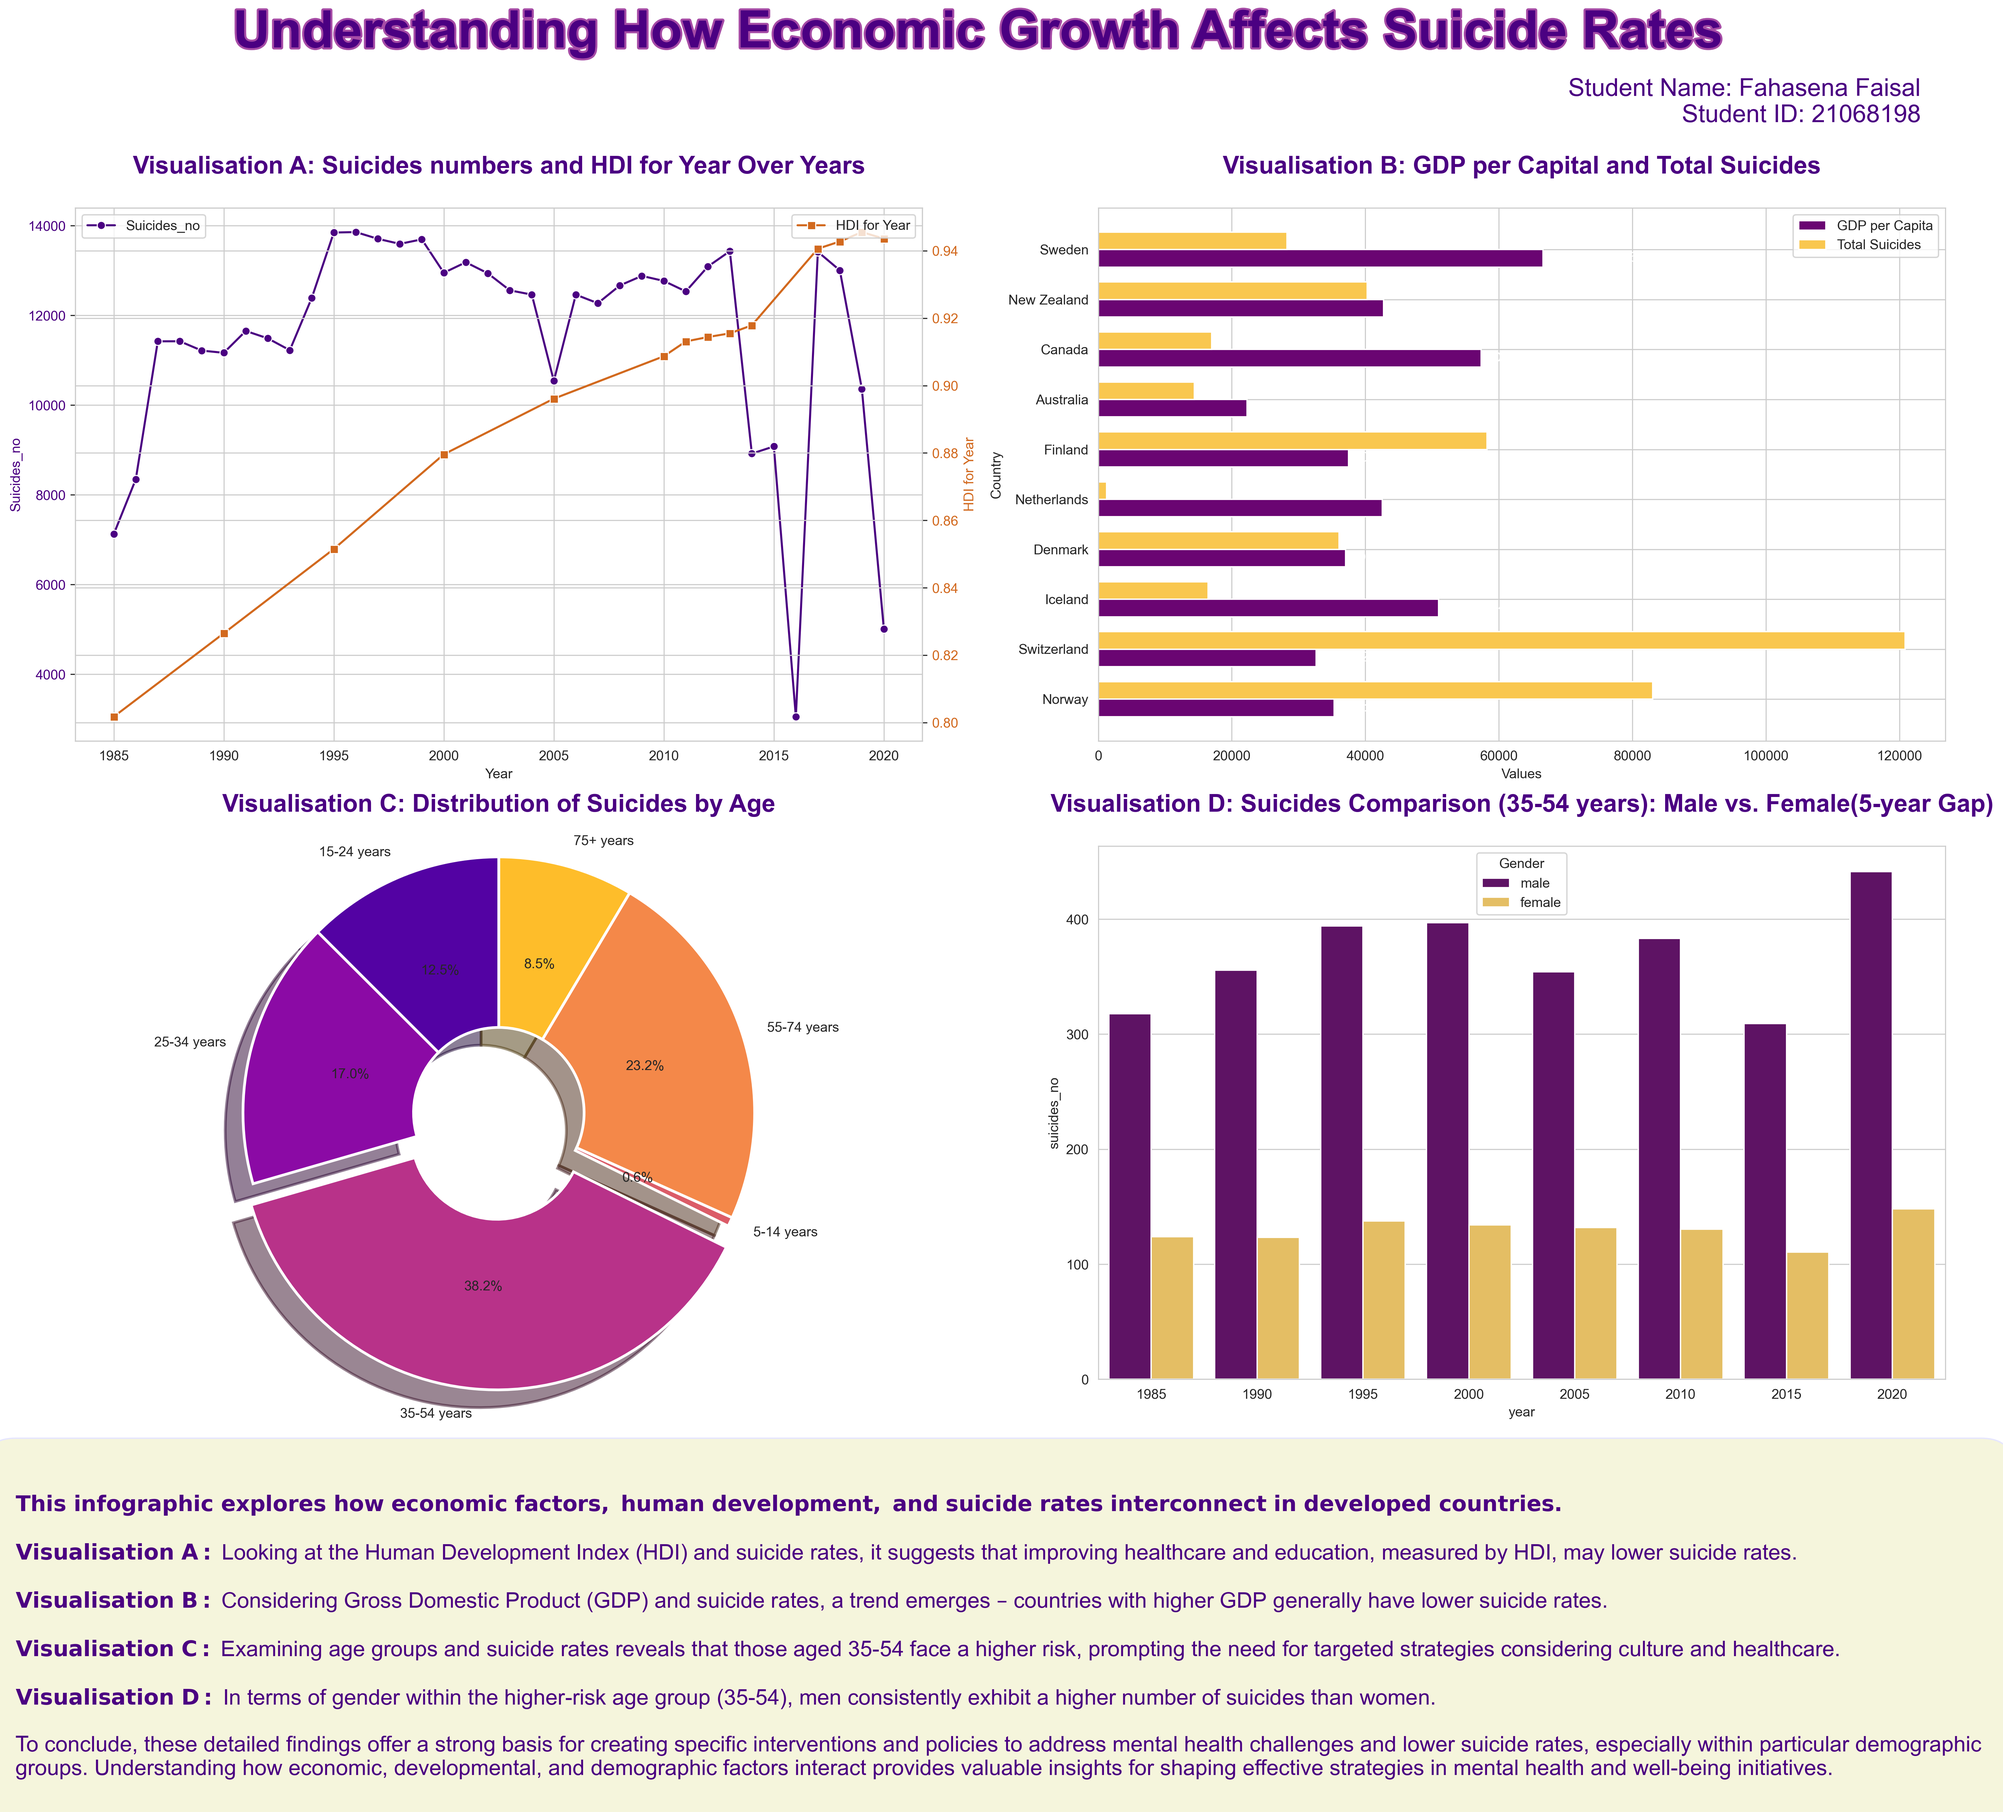
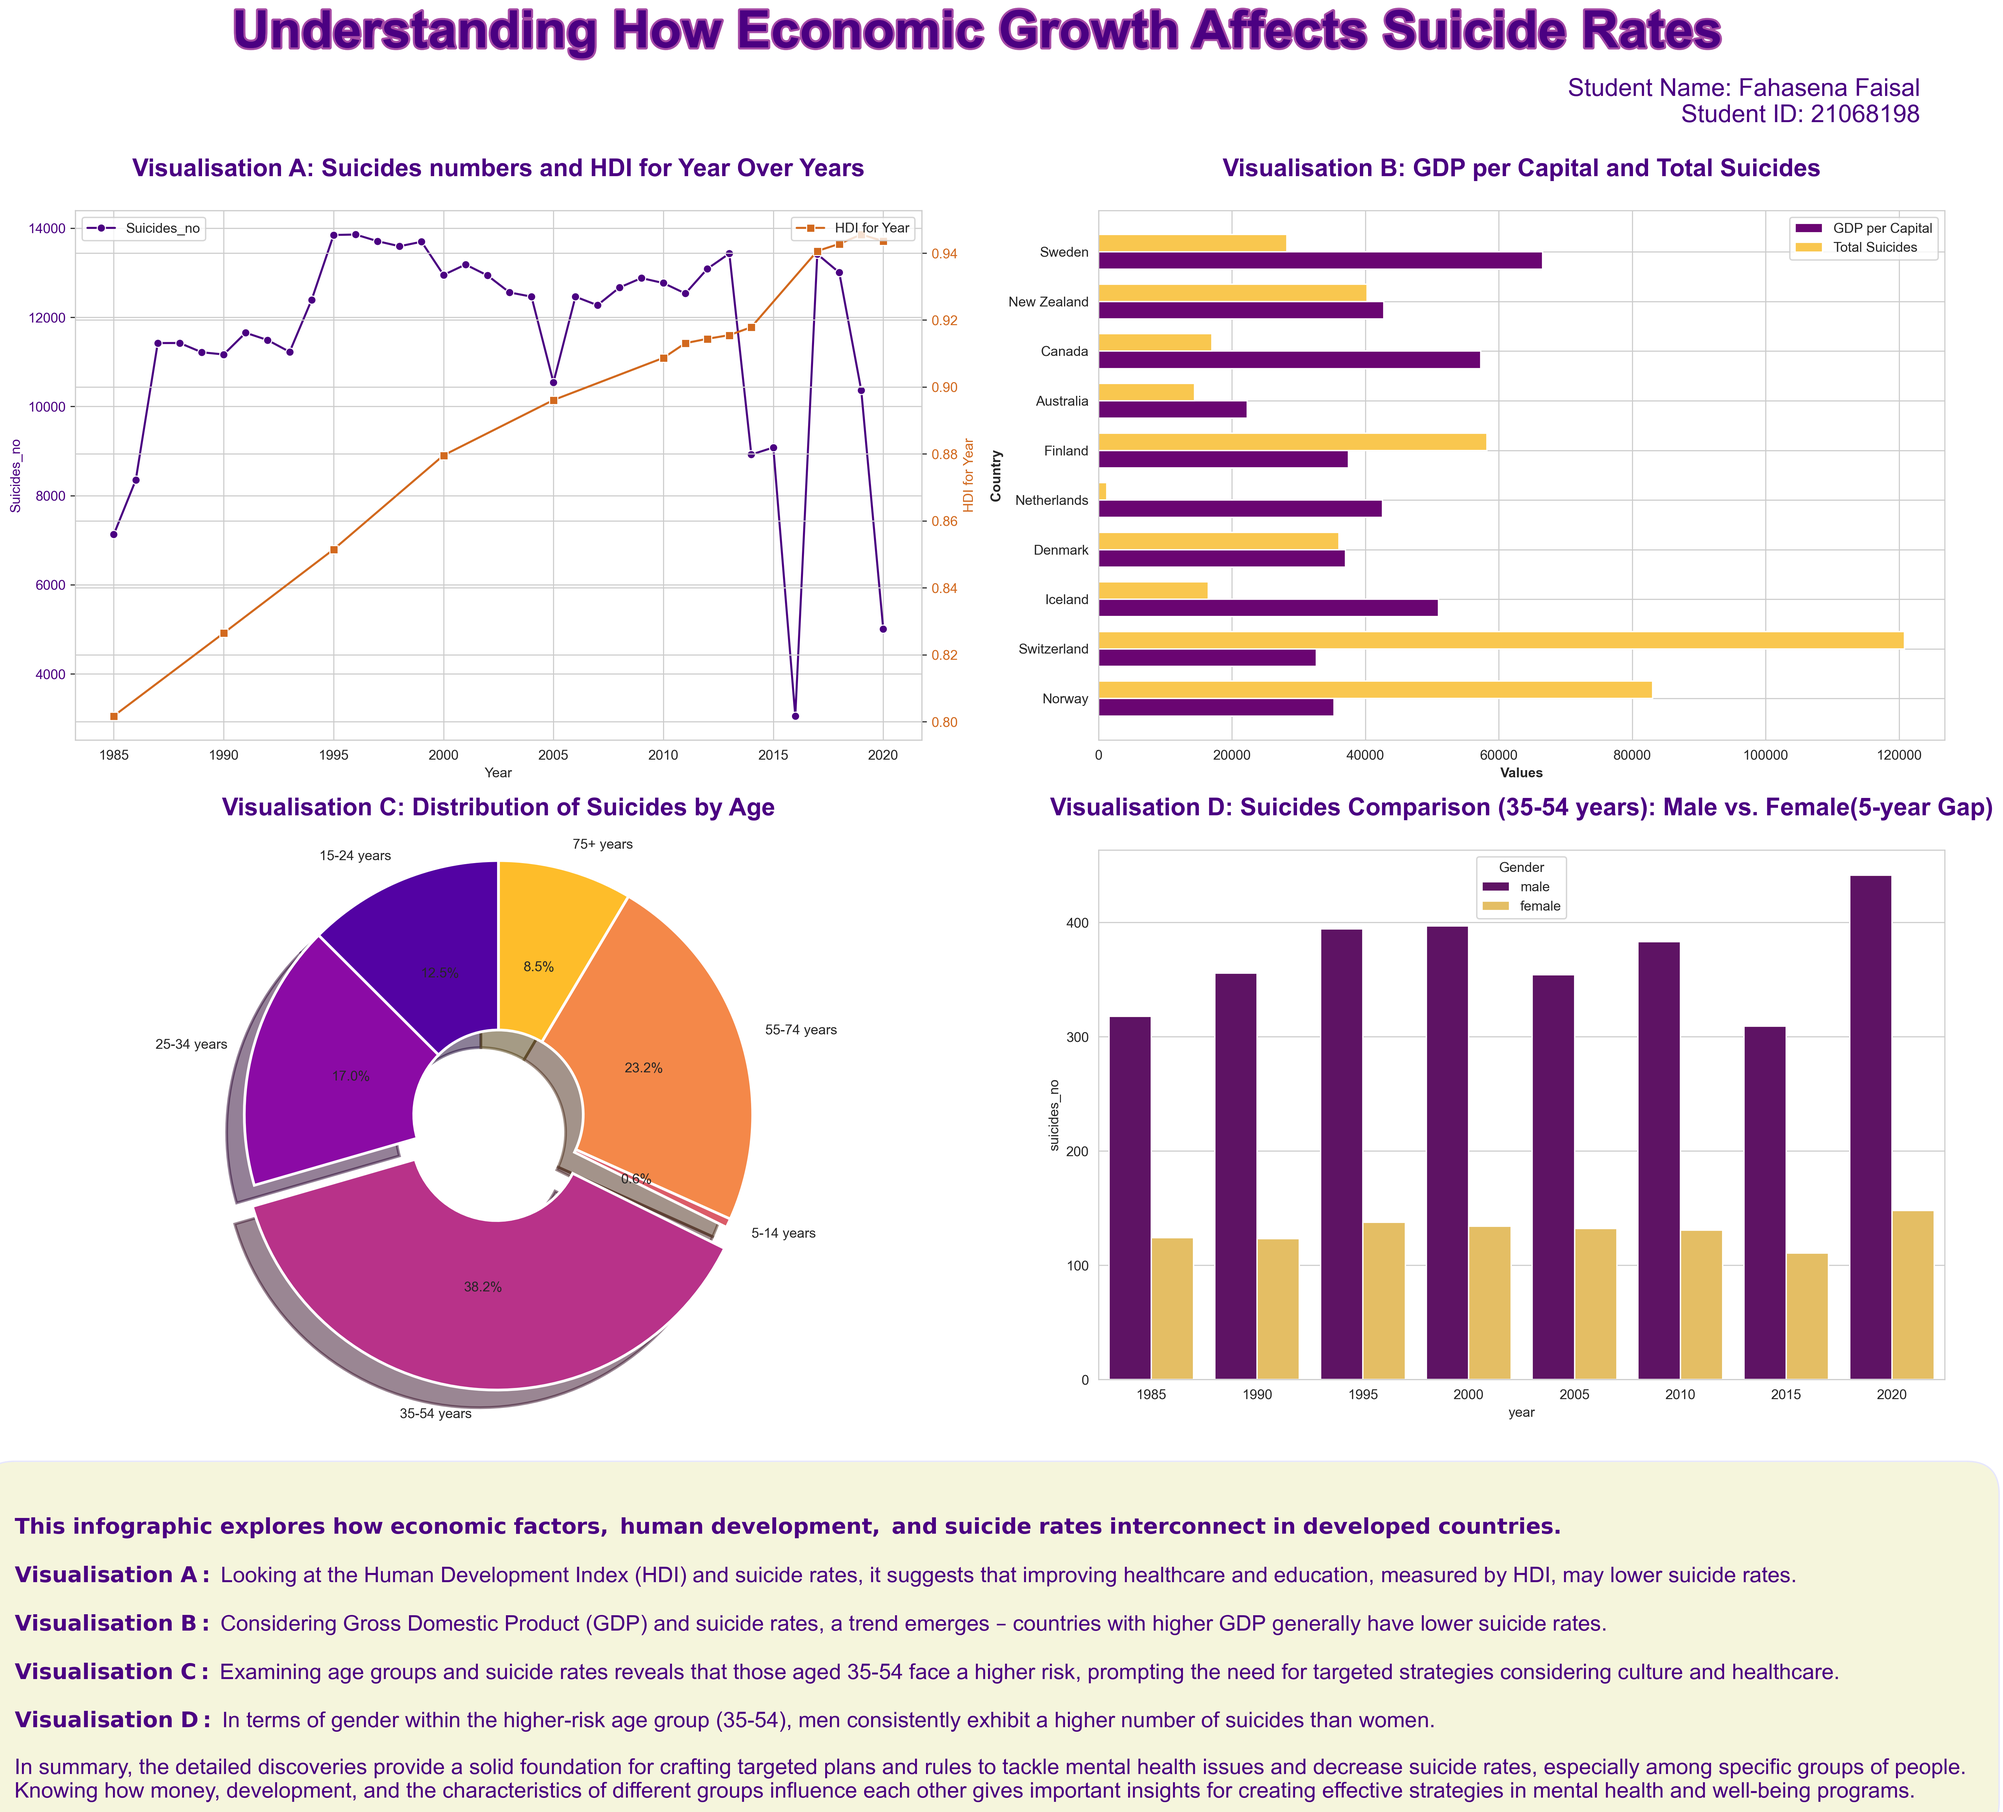
final

diff --git a/21068198.py b/21068198.py
@@ -1,0 +1,122 @@
+
+import pandas as pd
+import matplotlib.pyplot as plt
+import matplotlib.patheffects
+import seaborn as sns
+
+# Read the CSV file
+df = pd.read_csv('master.csv')
+
+# Select specific countries for analysis
+selected_countries = ['Norway', 'Switzerland', 'Iceland', 'Denmark',
+                      'Netherlands', 'Finland', 'Australia', 'Canada', 'New Zealand', 'Sweden']
+df_selected_countries = df[df['country'].isin(selected_countries)]
+
+# Set the style of the plots
+sns.set_style("whitegrid")
+
+# Set up subplots for a 2x2 grid
+fig, axes = plt.subplots(nrows=2, ncols=2, figsize=(20, 15))
+
+# Main title of the infographic
+fig.suptitle('Understanding How Economic Growth Affects Suicide Rates',
+             fontsize=38, ha='center', color='#4B0082',
+             weight='bold', va='center',
+             path_effects=[matplotlib.patheffects.withStroke(linewidth=3, foreground='#800080', alpha=0.7)])
+
+# Set background color for the entire infographic
+fig.set_facecolor('#FFFFFF')
+
+# Plot 1: Horizontal Grouped Bar chart - GDP per Capita and Total Suicides for Selected Countries
+bar_height = 0.35  # Height of the bars
+bar_positions = range(len(selected_countries))  # Set positions for the bars
+
+# Plot GDP per Capital bars
+gdp_bars = axes[0, 1].barh(bar_positions, df_selected_countries.groupby('country')['gdp_per_capital'].mean(),
+                           height=bar_height, color='#6A0572', label='GDP per Capital')
+
+# Plot Total Suicides bars
+suicide_bars = axes[0, 1].barh([pos + bar_height for pos in bar_positions], df_selected_countries.groupby('country')['suicides_no'].sum(),
+                               height=bar_height, color='#F9C74F', label='Total Suicides')
+
+axes[0, 1].set_title('Visualisation B: GDP per Capital and Total Suicides\n',
+                     fontsize=18, ha='center', color='indigo', weight='bold')
+axes[0, 1].set_xlabel('Values',weight='bold')
+axes[0, 1].set_ylabel('Country',weight='bold')
+axes[0, 1].set_yticks([pos + bar_height / 2 for pos in bar_positions])
+axes[0, 1].set_yticklabels(selected_countries)
+
+# Add legend to the plot
+axes[0, 1].legend()
+
+# Plot 2: Grouped Bar chart - Suicides for Male, Female, and Total Population Comparison (5-year gap)
+df_age_5year = df_selected_countries[(
+    df_selected_countries['age'] == '35-54 years') & (df_selected_countries['year'] % 5 == 0)]
+
+sns.barplot(x='year', y='suicides_no', hue='sex', data=df_age_5year,
+            ax=axes[1, 1], palette=['#6A0572', '#F9C74F'], errorbar=None)
+axes[1, 1].set_title('Visualisation D: Suicides Comparison (35-54 years): Male vs. Female(5-year Gap)\n',
+                     fontsize=18, ha='center', color='indigo', weight='bold')
+axes[1, 1].legend(title='Gender', loc='upper center')
+
+# Plot 3: Pie chart - Distribution of Suicides by Age with gap and increased size
+age_distribution = df_selected_countries.groupby('age')['suicides_no'].sum()
+colors = sns.color_palette('plasma')
+
+# Explode the "35-54 years" segment for emphasis
+explode = [0.1 if age == '35-54 years' else 0 for age in age_distribution.index]
+wedgeprops = {'linewidth': 2, 'edgecolor': 'white', 'width': 0.8}
+axes[1, 0].pie(age_distribution, labels=age_distribution.index, autopct='%2.1f%%', startangle=90,
+               colors=colors, explode=explode, wedgeprops=wedgeprops, shadow=True, radius=1.2)
+axes[1, 0].set_title('Visualisation C: Distribution of Suicides by Age\n',
+                     fontsize=18, ha='center', color='indigo', weight='bold')
+
+# Plot 4: Line chart - Compare Suicides_no and HDI_for_Year Over Years
+ax1 = axes[0, 0]
+
+# Line chart for Suicides_no
+sns.lineplot(x='year', y='suicides_no', data=df_selected_countries, estimator='sum',
+             ax=ax1, color='#4B0082', marker='o', label='Suicides_no', errorbar=None)
+
+# Secondary y-axis for HDI_for_year
+ax2 = ax1.twinx()
+sns.lineplot(x='year', y='HDI for year', data=df_selected_countries, estimator='mean',
+             ax=ax2, color='#D2691E', marker='s', label='HDI for Year', errorbar=None)
+
+# Set titles and labels for the primary y-axis
+ax1.set_title('Visualisation A: Suicides numbers and HDI for Year Over Years\n',
+              fontsize=18, ha='center', color='indigo', weight='bold')
+ax1.set_xlabel('Year')
+ax1.set_ylabel('Suicides_no', color='#4B0082')
+ax1.tick_params(axis='y', labelcolor='#4B0082')
+
+# Set titles and labels for the secondary y-axis
+ax2.set_ylabel('HDI for Year', color='#D2691E')
+ax2.tick_params(axis='y', labelcolor='#D2691E')
+
+# Add legend for both y-axes
+ax1.legend(loc='upper left')
+ax2.legend(loc='upper right')
+
+# Adjust layout
+plt.tight_layout(rect=[0, 0.03, 1, 0.95])
+
+# Add paragraph describing the visualizations and student information at the bottom
+fig.text(0.01, -0.22, r'''
+$\mathbf{This\ infographic\ explores\ how\ economic\ factors,\ human\ development,\ and\ suicide\ rates\ interconnect\ in\ developed\ countries.}$
+
+$\mathbf{Visualisation\ A:}$ Looking at the Human Development Index (HDI) and suicide rates, it suggests that improving healthcare and education, measured by HDI, may lower suicide rates.
+
+$\mathbf{Visualisation\ B:}$ Considering Gross Domestic Product (GDP) and suicide rates, a trend emerges – countries with higher GDP generally have lower suicide rates.
+
+$\mathbf{Visualisation\ C:}$ Examining age groups and suicide rates reveals that those aged 35-54 face a higher risk, prompting the need for targeted strategies considering culture and healthcare.
+
+$\mathbf{Visualisation\ D:}$ In terms of gender within the higher-risk age group (35-54), men consistently exhibit a higher number of suicides than women.
+
+In summary, the detailed discoveries provide a solid foundation for crafting targeted plans and rules to tackle mental health issues and decrease suicide rates, especially among specific groups of people. Knowing how money, development, and the characteristics of different groups influence each other gives important insights for creating effective strategies in mental health and well-being programs.''', fontsize=16, ha='left', va='bottom', color='#4B0082', wrap=True, bbox=dict(facecolor='#F5F5DC', edgecolor='#E6E6FF', boxstyle='round,pad=1.5'))
+# Add student information
+fig.text(0.98, 0.95, 'Student Name: Fahasena Faisal\nStudent ID: 21068198\n',
+         fontsize=18, ha='right', va='top', color='#4B0082')
+
+# Save the figure
+plt.savefig("21068198.png", dpi=300, bbox_inches='tight')
